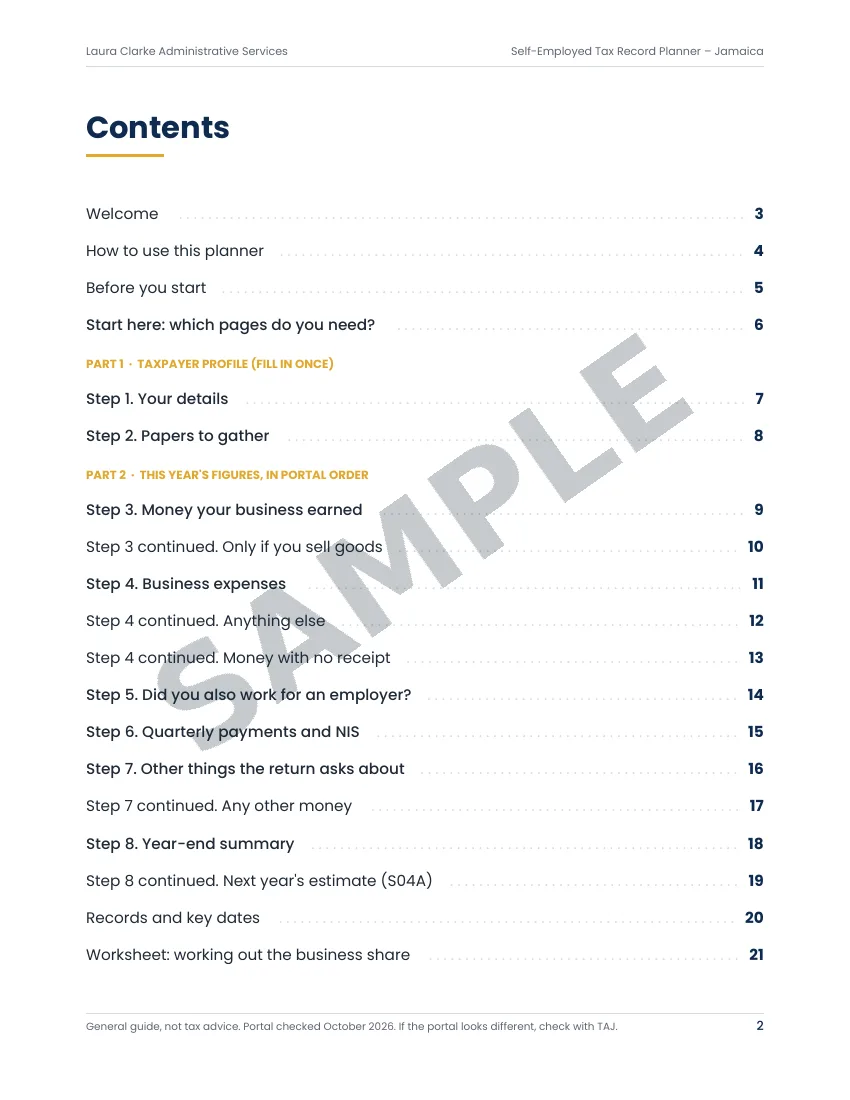
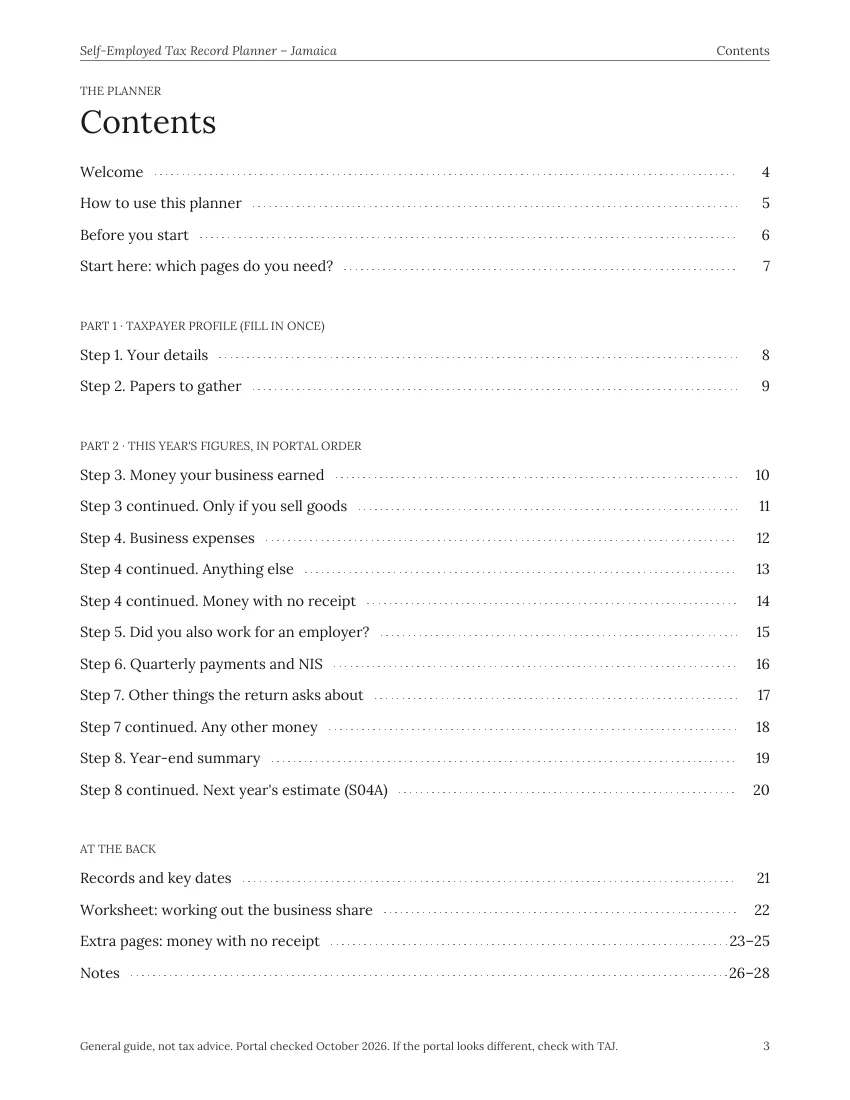
Bookstore pages in Lora like the Planner; new-look Planner previews; Amazon link on homepage Planner card
Claude-Session: https://claude.ai/code/session_019XziezihfLMvf6sQ8qUtKF

diff --git a/s04-tax-record-planner.html b/s04-tax-record-planner.html
@@ -52,10 +52,10 @@
 </script>
 <link rel="preconnect" href="https://fonts.googleapis.com">
 <link rel="preconnect" href="https://fonts.gstatic.com" crossorigin>
-<link href="https://fonts.googleapis.com/css2?family=Playfair+Display:wght@600&family=Inter:wght@400;500;600;700&display=swap" rel="stylesheet">
+<link href="https://fonts.googleapis.com/css2?family=Lora:ital,wght@0,400;0,500;0,600;1,400&family=Inter:wght@400;500;600;700&display=swap" rel="stylesheet">
 <style>
 :root{--navy:#0F2537;--gold:#D4AF37;--gold-text:#7A5C17;--tint:#EEF1F4;--cover:#F4F6F8;--line:#C5CDD6;--text:#2F3538;--muted:#565E63;--sage:#8FA98C;
---serif:"Playfair Display",Georgia,"Times New Roman",serif;--sans:Inter,system-ui,-apple-system,"Segoe UI",Roboto,Arial,sans-serif}
+--serif:"Lora",Georgia,"Times New Roman",serif;--sans:Inter,system-ui,-apple-system,"Segoe UI",Roboto,Arial,sans-serif}
 *{box-sizing:border-box}html{scroll-padding-top:90px}
 body{margin:0;background:#fff;color:var(--text);font:400 17px/1.65 var(--sans)}
 img{max-width:100%;height:auto;display:block}
@@ -246,6 +246,12 @@ h1,h2,h3,.hook{font-variant-numeric:lining-nums}
 @media (min-width: 760px) { .lcf-top { grid-template-columns: 1.4fr 1fr auto; align-items: start; } .lcf-bottom { flex-direction: row; justify-content: space-between; align-items: center; } }
 .lcf{background:#1E2724}.lcf a:hover{color:#9FE1CB}
 </style>
+<style id="book-type">
+/* Bookstore pages use the same serif as the Planner (Lora) (Nov 2026) */
+main{font-family:"Lora",Georgia,"Times New Roman",serif}
+h1,h2,h3{font-family:"Lora",Georgia,serif!important;font-weight:500!important}
+.btn,.kick,.price,.note,.crumbs,.field label,input,select,button,.tag,.save,.consent{font-family:Inter,system-ui,-apple-system,"Segoe UI",Roboto,Arial,sans-serif}
+</style>
 </head>
 <body id="top">
 <a href="#main" class="skip">Skip to content</a>
@@ -306,7 +312,7 @@ h1,h2,h3,.hook{font-variant-numeric:lining-nums}
       <div class="peek">
         <h2>Look inside</h2>
         <div class="strip" tabindex="0" role="region" aria-label="Preview pages, scroll sideways">
-          <img src="assets/s04-planner-preview-2.webp" width="850" height="1100" decoding="async" alt="Preview: Contents page showing the eight steps">
+          <img src="assets/s04-planner-preview-2.webp" width="850" height="1100" decoding="async" alt="Preview: Contents page">
           <img src="assets/s04-planner-preview-6.webp" width="850" height="1100" decoding="async" alt="Preview: Papers to gather checklist">
           <img src="assets/s04-planner-preview-15.webp" width="850" height="1100" decoding="async" alt="Preview: Year-end summary page">
         </div>

diff --git a/self-employed-s04-tax-tools.html b/self-employed-s04-tax-tools.html
@@ -46,11 +46,11 @@
 </script>
 <link rel="preconnect" href="https://fonts.googleapis.com">
 <link rel="preconnect" href="https://fonts.gstatic.com" crossorigin>
-<link href="https://fonts.googleapis.com/css2?family=Playfair+Display:wght@600&family=Inter:wght@400;500;600;700&display=swap" rel="stylesheet">
+<link href="https://fonts.googleapis.com/css2?family=Lora:ital,wght@0,400;0,500;0,600;1,400&family=Inter:wght@400;500;600;700&display=swap" rel="stylesheet">
 <style>
 /* Tax tools: white page, grey hero band, square cards, cover shown whole. Matches the live site's navy and gold. */
 :root{--navy:#0F2537;--gold:#D4AF37;--gold-text:#7A5C17;--tint:#EEF1F4;--cover:#F4F6F8;--line:#C5CDD6;--text:#2F3538;--muted:#565E63;--sage:#8FA98C;
---serif:"Playfair Display",Georgia,"Times New Roman",serif;--sans:Inter,system-ui,-apple-system,"Segoe UI",Roboto,Arial,sans-serif}
+--serif:"Lora",Georgia,"Times New Roman",serif;--sans:Inter,system-ui,-apple-system,"Segoe UI",Roboto,Arial,sans-serif}
 *{box-sizing:border-box}html{scroll-padding-top:90px}
 body{margin:0;background:#fff;color:var(--text);font:400 17px/1.65 var(--sans)}
 img{max-width:100%;height:auto;display:block}
@@ -174,6 +174,12 @@ h1,h2{font-family:var(--serif);font-weight:600;color:var(--navy);text-wrap:balan
 .lcf-bottom ul { display: flex; flex-wrap: wrap; gap: 0 1.5rem; list-style: none; padding: 0; margin: 0; }
 @media (min-width: 760px) { .lcf-top { grid-template-columns: 1.4fr 1fr auto; align-items: start; } .lcf-bottom { flex-direction: row; justify-content: space-between; align-items: center; } }
 
+</style>
+<style id="book-type">
+/* Bookstore pages use the same serif as the Planner (Lora) (Nov 2026) */
+main{font-family:"Lora",Georgia,"Times New Roman",serif}
+h1,h2,h3{font-family:"Lora",Georgia,serif!important;font-weight:500!important}
+.btn,.kick,.price,.note,.crumbs,.field label,input,select,button,.tag,.save,.consent{font-family:Inter,system-ui,-apple-system,"Segoe UI",Roboto,Arial,sans-serif}
 </style>
 </head>
 <body>

diff --git a/checklist.html b/checklist.html
@@ -20,11 +20,11 @@
 <meta name="twitter:card" content="summary_large_image">
 <link rel="preconnect" href="https://fonts.googleapis.com">
 <link rel="preconnect" href="https://fonts.gstatic.com" crossorigin>
-<link href="https://fonts.googleapis.com/css2?family=Playfair+Display:wght@600&family=Inter:wght@400;500;600;700&display=swap" rel="stylesheet">
+<link href="https://fonts.googleapis.com/css2?family=Lora:ital,wght@0,400;0,500;0,600;1,400&family=Inter:wght@400;500;600;700&display=swap" rel="stylesheet">
 <style>
 /* Tax tools: white page, grey hero band, square cards, cover shown whole. Matches the live site's navy and gold. */
 :root{--navy:#0F2537;--gold:#D4AF37;--gold-text:#7A5C17;--tint:#EEF1F4;--cover:#F4F6F8;--line:#C5CDD6;--text:#2F3538;--muted:#565E63;--sage:#8FA98C;
---serif:"Playfair Display",Georgia,"Times New Roman",serif;--sans:Inter,system-ui,-apple-system,"Segoe UI",Roboto,Arial,sans-serif}
+--serif:"Lora",Georgia,"Times New Roman",serif;--sans:Inter,system-ui,-apple-system,"Segoe UI",Roboto,Arial,sans-serif}
 *{box-sizing:border-box}html{scroll-padding-top:90px}
 body{margin:0;background:#fff;color:var(--text);font:400 17px/1.65 var(--sans)}
 img{max-width:100%;height:auto;display:block}
@@ -176,6 +176,12 @@ h1,h2{font-family:var(--serif);font-weight:600;color:var(--navy);text-wrap:balan
 .fcard .btn{width:100%;cursor:pointer}
 .done{border:1px solid var(--sage);border-top:3px solid var(--sage);padding:24px 20px;background:#fff;display:flex;flex-direction:column;gap:14px}
 .done h2{font-size:1.4rem}.done p{margin:0}
+</style>
+<style id="book-type">
+/* Bookstore pages use the same serif as the Planner (Lora) (Nov 2026) */
+main{font-family:"Lora",Georgia,"Times New Roman",serif}
+h1,h2,h3{font-family:"Lora",Georgia,serif!important;font-weight:500!important}
+.btn,.kick,.price,.note,.crumbs,.field label,input,select,button,.tag,.save,.consent{font-family:Inter,system-ui,-apple-system,"Segoe UI",Roboto,Arial,sans-serif}
 </style>
 </head>
 <body>

diff --git a/index.html b/index.html
@@ -1206,7 +1206,9 @@ body .dd-col h3 a:hover{text-decoration:underline}
 <div class="nh-book-ctas">
 <a class="nh-buy" href="https://wa.me/18765612614?text=Hi%20Laura%2C%20I%27d%20like%20to%20get%20the%20Self-Employed%20Tax%20Record%20Planner%20%28J%242%2C000%29." target="_blank" rel="noopener">Get your copy</a>
 <a class="nh-inside" href="/s04-tax-record-planner">See what's inside</a>
+<a class="nh-inside" href="https://link.amazon/B0abubDg1" target="_blank" rel="noopener sponsored">Paperback on Amazon · US$14.99</a>
 </div>
+<p style="margin:10px 0 0;font-size:12.5px;color:#55625E">As an Amazon Associate I earn from qualifying purchases.</p>
 </div>
 </article>
 
